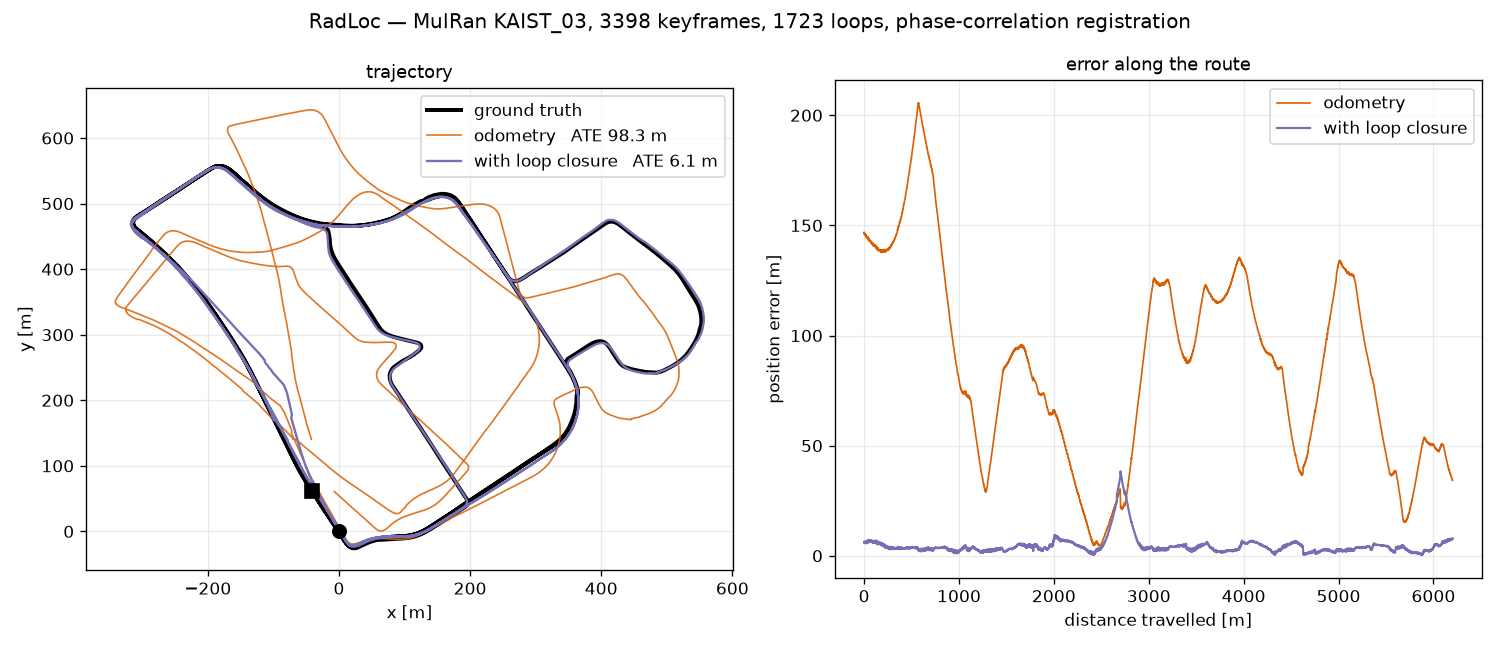
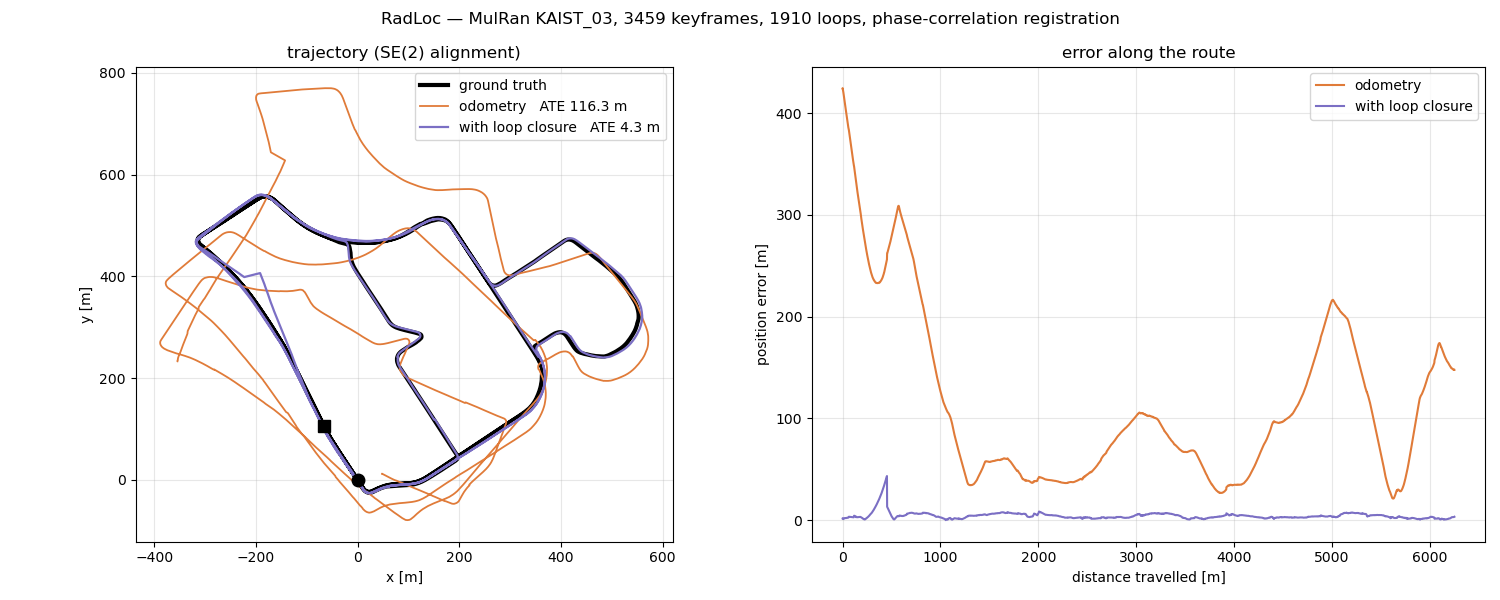
MulRan range resolution (0.0596 m/bin) via dataset:=mulran|oxford; KAIST_03 re-run
- radloc_odometry / radloc_ros: config/{mulran,oxford}.yaml (radar_resolution), launch arg dataset
  (default mulran). The 0.0432 m/bin default of the published code is Oxford's; on MulRan it shrank every
  trajectory to ~0.73 of its length.
- mulran_to_oxford.py: reverse the azimuth order, so the odometry is not mirrored against MulRan's ground truth
- README, AGENTS, application READMEs and assets/kaist03_trajectory.png: KAIST_03 re-run (ROS 2: 3459
  keyframes, 1910 loops, SE(2) ATE 116.4 m odometry, 4.3 m SLAM; ROS 1 12.6 m), multi-session re-run on
  sessions regenerated at the right scale (896 loops; NN p50 44.89 -> 0.94 m, within 5 m 15.5 -> 68.8 %)

Claude-Session: https://claude.ai/code/session_01K39jNp46XfQu5S3JbGg25o

diff --git a/applications/slam/ros2/radloc_slam/launch/radloc_slam.launch.py b/applications/slam/ros2/radloc_slam/launch/radloc_slam.launch.py
@@ -1,11 +1,15 @@
 """Radar odometry and pose-graph SLAM over a recorded sequence.
 
-    ros2 launch radloc_slam radloc_slam.launch.py sequence_dir:=/data/radar/Mulran/KAIST_03
+    ros2 launch radloc_slam radloc_slam.launch.py sequence_dir:=/data/radar/Mulran/KAIST_03 dataset:=mulran
+
+``dataset`` picks the radar's range resolution (radloc_odometry/config/<dataset>.yaml): mulran 0.0596 m per
+bin (also Boreas), oxford 0.0432 m per bin (Oxford Radar RobotCar). A wrong value scales the whole trajectory.
 """
 
 from launch import LaunchDescription
 from launch.actions import DeclareLaunchArgument
-from launch.substitutions import LaunchConfiguration
+from launch.substitutions import LaunchConfiguration, PathJoinSubstitution
+from launch_ros.substitutions import FindPackageShare
 from launch_ros.actions import Node
 
 
@@ -19,13 +23,20 @@ def generate_launch_description() -> LaunchDescription:
         DeclareLaunchArgument("save_directory", default_value="/data/output/",
                               description="Where the pose graph is written; end with /"),
         DeclareLaunchArgument("keyframe_gap_m", default_value="0.0"),
+        DeclareLaunchArgument("dataset", default_value="mulran",
+                              description="mulran (0.0596 m/bin) or oxford (0.0432 m/bin, Oxford Radar RobotCar); Boreas is 0.0596 like MulRan"),
+        DeclareLaunchArgument("scan_period_ms", default_value="100"),
 
         Node(
             package="radloc_odometry",
             executable="odometry_node",
             name="radloc_odometry",
             output="screen",
-            parameters=[{"sequence_dir": sequence_dir}],
+            parameters=[
+                PathJoinSubstitution([FindPackageShare("radloc_odometry"), "config",
+                                      [LaunchConfiguration("dataset"), ".yaml"]]),
+                {"sequence_dir": sequence_dir, "scan_period_ms": LaunchConfiguration("scan_period_ms")},
+            ],
         ),
         Node(
             package="radloc_slam",

diff --git a/applications/slam/tools/mulran_to_oxford.py b/applications/slam/tools/mulran_to_oxford.py
@@ -6,7 +6,7 @@
 Oxford layout: one row per azimuth, 11 metadata bytes (int64 timestamp, uint16 encoder count out of 5600,
 uint8 valid = 255) then the range bins. MulRan scans carry no per-azimuth time, so it is spread linearly
 over one revolution (--period, 4 Hz for the CIR204 of MulRan) from the file name's time, in the file name's
-unit (nanoseconds for MulRan).
+unit (nanoseconds for MulRan). The azimuth order is reversed to match the Oxford encoder direction.
 """
 import argparse
 from pathlib import Path
@@ -28,6 +28,9 @@ def main() -> None:
         img = cv2.imread(str(f), cv2.IMREAD_GRAYSCALE)
         if img.shape[0] > img.shape[1]:          # range x azimuth -> azimuth x range
             img = img.T
+        # MulRan's azimuths run the other way round from the Oxford encoder count: without this the
+        # odometry comes out mirrored against MulRan's ground truth.
+        img = img[::-1]
         n_az, n_rng = img.shape
         t0 = int(f.stem)
         out = np.zeros((n_az, 11 + n_rng), np.uint8)

diff --git a/applications/slam/ros2/radloc_odometry/src/odometry_node.cpp b/applications/slam/ros2/radloc_odometry/src/odometry_node.cpp
@@ -82,8 +82,9 @@ class RadarOdometryNode : public rclcpp::Node {
     child_frame_id_ = declare_parameter<std::string>("child_frame_id", "radar");
 
     min_range_ = declare_parameter<int>("min_range", 58);
-    // Metres per range bin. Entangled with the encoder convention the azimuths
-    // are read under, so it is left where the published code had it.
+    // Metres per range bin of the radar: 0.0432 for the Oxford Radar RobotCar CTS350-X (the
+    // default, as in the published code), 0.0596 for MulRan's CIR204-H and Boreas. The launch files set it from
+    // config/<dataset>.yaml; a wrong value scales the whole trajectory.
     radar_resolution_ = declare_parameter<double>("radar_resolution", 0.0432);
     cart_resolution_ = declare_parameter<double>("cart_resolution", 0.2592);
     cart_pixel_width_ = declare_parameter<int>("cart_pixel_width", 964);

diff --git a/applications/slam/ros1/radloc_ros/src/odometry_node.cpp b/applications/slam/ros1/radloc_ros/src/odometry_node.cpp
@@ -85,8 +85,9 @@ class RadarOdometryNode {
     child_frame_id_ = param<std::string>(pnh, "child_frame_id", "radar");
 
     min_range_ = param<int>(pnh, "min_range", 58);
-    // Metres per range bin. Entangled with the encoder convention the azimuths
-    // are read under, so it is left where the published code had it.
+    // Metres per range bin of the radar: 0.0432 for the Oxford Radar RobotCar CTS350-X (the
+    // default, as in the published code), 0.0596 for MulRan's CIR204-H and Boreas. The launch files set it from
+    // config/<dataset>.yaml; a wrong value scales the whole trajectory.
     radar_resolution_ = param<double>(pnh, "radar_resolution", 0.0432);
     cart_resolution_ = param<double>(pnh, "cart_resolution", 0.2592);
     cart_pixel_width_ = param<int>(pnh, "cart_pixel_width", 964);

diff --git a/README.md b/README.md
@@ -106,29 +106,36 @@ ______________________________________________________________________
 
 Radar odometry (Yeti: Cen features, ORB matching, motion-distorted RANSAC with Doppler correction) publishes the motion, the feature cloud and the RadLoc descriptor of every scan; the pose-graph node closes loops with RadLoc, registers them by phase correlation and optimizes with iSAM2. The run is written as a **session** (pose graph, descriptors, scans) that the multi-session tool reads back.
 
-MulRan `KAIST_03`, 3398 keyframes, 1723 loops: odometry alone drifts to 98.3 m against ground truth; with loop closure the error stays near 6 m for the whole 6.2 km.
+MulRan `KAIST_03` (6.25 km), ROS 2, 3459 keyframes, 1910 loops. Mean position error (ATE) against MulRan's ground truth after a rigid SE(2) alignment, no scale:
+
+| | ATE mean | RMSE | max |
+| --- | --- | --- | --- |
+| odometry | 116.4 m | 146.7 m | 424.6 m |
+| with RadLoc loop closure | **4.3 m** | **5.6 m** | 43.3 m |
+
+The ROS 1 node, fed the same odometry, closes 1913 loops and ends at 12.6 m: its graph is the same (solved in one batch, both give 9.3 m), but iSAM2's result depends on the order in which the loops arrive.
 
 <p align="center"><img src="assets/kaist03_trajectory.png" alt="KAIST_03 trajectory: odometry drifts, RadLoc SLAM stays on the ground truth" width="90%" /></p>
 
 ```bash
 # ROS 2 Humble
-ros2 launch radloc_slam radloc_slam.launch.py sequence_dir:=<MulRan>/KAIST_03 save_directory:=/data/output/KAIST_03/
+ros2 launch radloc_slam radloc_slam.launch.py sequence_dir:=<MulRan>/KAIST_03 save_directory:=/data/output/KAIST_03/ dataset:=mulran
 # ROS 1 Noetic
-roslaunch radloc_ros radloc_slam.launch sequence_dir:=<MulRan>/KAIST_03 save_directory:=/data/output/KAIST_03/
+roslaunch radloc_ros radloc_slam.launch sequence_dir:=<MulRan>/KAIST_03 save_directory:=/data/output/KAIST_03/ dataset:=mulran
 ```
 
-Both read `polar/` from the sequence folder in the Oxford layout (MulRan scans: convert once with [`applications/slam/tools/mulran_to_oxford.py`](applications/slam/tools/mulran_to_oxford.py)); the session goes to `save_directory` (`optimized_poses_kitti.txt`, `odom_poses_kitti.txt`, `keyframe_times.txt`, `singlesession_posegraph.g2o`, `RadLocDescriptors/`, `Scans/`). See [applications/slam](applications/slam).
+`dataset` sets the radar's range resolution: `mulran` (0.0596 m per bin, also Boreas, the default) or `oxford` (0.0432 m per bin, Oxford Radar RobotCar); a wrong value scales the whole trajectory. Both read `polar/` from the sequence folder in the Oxford layout (MulRan scans: convert once with [`applications/slam/tools/mulran_to_oxford.py`](applications/slam/tools/mulran_to_oxford.py)); the session goes to `save_directory` (`optimized_poses_kitti.txt`, `odom_poses_kitti.txt`, `keyframe_times.txt`, `singlesession_posegraph.g2o`, `RadLocDescriptors/`, `Scans/`). See [applications/slam](applications/slam).
 
 ## :link: Multi-session SLAM
 
-Two halves of that run, each in its own frame — the second retraces the first over about 78 % of its length. 997 inter-session loops in 18 s. Measured as the distance from each keyframe of the second session to the nearest of the first, which needs no external ground truth:
+`KAIST_03` cut in two halves (1730 and 1731 scans), each run through the SLAM in its own frame; 896 inter-session loops in 23 s. The distance from each keyframe of the second session to the nearest keyframe of the first (no ground truth needed), and the second session's error against ground truth once the first is aligned to it (SE(2)):
 
-| | p50 | within 5 m |
-| --- | --- | --- |
-| before | 50.64 m | 8.9 % |
-| after | **0.59 m** | **77.3 %** |
+| | nearest keyframe, p50 | within 5 m | error vs ground truth, mean (median) |
+| --- | --- | --- | --- |
+| before | 44.89 m | 15.5 % | 398.9 m (446.9 m) |
+| after | **0.94 m** | **68.8 %** | **8.0 m (5.6 m)** |
 
-The ceiling matches the overlap: what has a counterpart is aligned, the rest has nothing to align to.
+Only part of the second half retraces the first, so not every keyframe has a counterpart to land on.
 
 ```bash
 multi_session_node applications/multi-session-slam/config/kaist03_split.yaml     # sessions_dir/{01,02} -> save_directory

diff --git a/AGENTS.md b/AGENTS.md
@@ -48,9 +48,9 @@ RADLOC_DATASETS_HOST=<parent of Mulran> RADLOC_OUTPUT_HOST=<OUT> SEQUENCE_DIR=/d
   SAVE_DIR=/data/output/KAIST_03/ docker compose -f docker/docker-compose.yml run --rm slam
 ```
 
-Docker, ROS 1: `docker build -f docker/Dockerfile.ros1 -t radloc:noetic .`, then the `slam_ros1` service with the same variables.
+Docker, ROS 1: `docker build -f docker/Dockerfile.ros1 -t radloc:noetic .`, then the `slam_ros1` service with the same variables. Run one ROS 2 SLAM per Docker network (or give each a different `ROS_DOMAIN_ID`): two ROS 2 containers on the default bridge hear each other's topics and mix their runs.
 
-The odometry replays every scan (100 ms apart by default, `scan_period_ms`); `KAIST_03` (3,462 scans) takes about 6 minutes. Check the log for `loop <i> <- <j>` lines and the session in `SAVE_DIR`: `optimized_poses_kitti.txt`, `odom_poses_kitti.txt`, `keyframe_times.txt`, `singlesession_posegraph.g2o`, `RadLocDescriptors/`, `Scans/`. To score against ground truth, interpolate `global_pose.csv` at `keyframe_times.txt` and align (the README result: odometry drifts to 98.3 m, SLAM stays near 6 m over 6.2 km).
+The odometry replays every scan (100 ms apart by default, `scan_period_ms`); `KAIST_03` (3,461 scans) takes 15–20 minutes. MulRan needs `dataset:=mulran` (the default: 0.0596 m per range bin); Oxford Radar RobotCar `dataset:=oxford`. Check the log for `loop <i> <- <j>` lines and the session in `SAVE_DIR`: `optimized_poses_kitti.txt`, `odom_poses_kitti.txt`, `keyframe_times.txt`, `singlesession_posegraph.g2o`, `RadLocDescriptors/`, `Scans/`. To score against ground truth, interpolate the MulRan ground truth at `keyframe_times.txt` and align with a rigid SE(2) transform (the README result, ROS 2: 3459 keyframes, 1910 loops, ATE 116.4 m for the odometry, 4.3 m with loop closure; the ROS 1 run of the same data gave 12.6 m, iSAM2 being order dependent).
 
 ## 4. Multi-session SLAM (optional)
 

diff --git a/applications/multi-session-slam/README.md b/applications/multi-session-slam/README.md
@@ -17,7 +17,8 @@ build/ms/multi_session_node applications/multi-session-slam/config/kaist03_split
 result goes to `save_directory` (removed and recreated on each run): the optimized poses of both sessions in the
 central frame and the inter-session loops.
 
-MulRan `KAIST_03` split in two halves, each in its own frame (`config/kaist03_split.yaml`): 997 inter-session
-loops in 18 s; the distance from each keyframe of the second session to the nearest of the first goes from
-50.64 m (p50) to **0.59 m**, and 77.3 % of them land within 5 m (8.9 % before), which matches the overlap of the
-two halves (about 78 %).
+MulRan `KAIST_03` cut in two halves (1730 and 1731 scans), each run through the SLAM in its own frame
+(`dataset:=mulran`), then `config/kaist03_split.yaml`: 896 inter-session loops in 23 s. The distance from each
+keyframe of the second session to the nearest of the first goes from 44.89 m (p50) to **0.94 m**, and 68.8 % of
+them land within 5 m (15.5 % before); against ground truth, with the first session aligned to it (SE(2)), the
+second session's error goes from 398.9 m to **8.0 m** mean (5.6 m median).

diff --git a/applications/slam/README.md b/applications/slam/README.md
@@ -22,6 +22,10 @@ keyframe every `keyframe_gap_m` (0: every scan), proposes a loop for each new ke
 `loop_min_travel_m` (10 m) back along the path, registers it by phase correlation (`loop_min_response` 0.3) and
 optimizes with iSAM2. Parameters and topics are the same on both ROS versions.
 
+**Radar resolution.** `dataset:=mulran` (default; 0.0596 m per range bin, also Boreas) or `dataset:=oxford`
+(0.0432 m, Oxford Radar RobotCar) loads `config/<dataset>.yaml` (`radar_resolution`). A wrong value scales the
+whole trajectory: with 0.0432 on MulRan it comes out about 0.73 times too short.
+
 **Input layout.** The odometry reads the Oxford layout: one row per azimuth, 11 metadata bytes (timestamp,
 encoder count, valid flag) and then the range bins. MulRan's downloaded `polar/` scans are range x azimuth
 without that header; convert them once:

diff --git a/docker/README.md b/docker/README.md
@@ -83,6 +83,12 @@ SEQUENCE_DIR=/data/datasets/Mulran/KAIST_03 docker compose -f docker/docker-comp
 The ROS 1 image is self-contained (sources baked in): the core, the
 `radloc_ros` catkin package and `multi_session_node` on the `PATH`.
 
+## Datasets and runs
+
+`slam` and `slam_ros1` take `SEQUENCE_DIR`, `SAVE_DIR` and `DATASET` (`mulran`, the default, or `oxford`: the
+radar's range resolution, see `applications/slam/README.md`). The ROS 2 services use `network_mode: host`; when
+several ROS 2 runs go at once, give each its own `ROS_DOMAIN_ID` (or its own network), or their topics mix.
+
 ## GUI
 
 `network_mode: host` and the X11 socket are already wired up, so `rviz2` works
